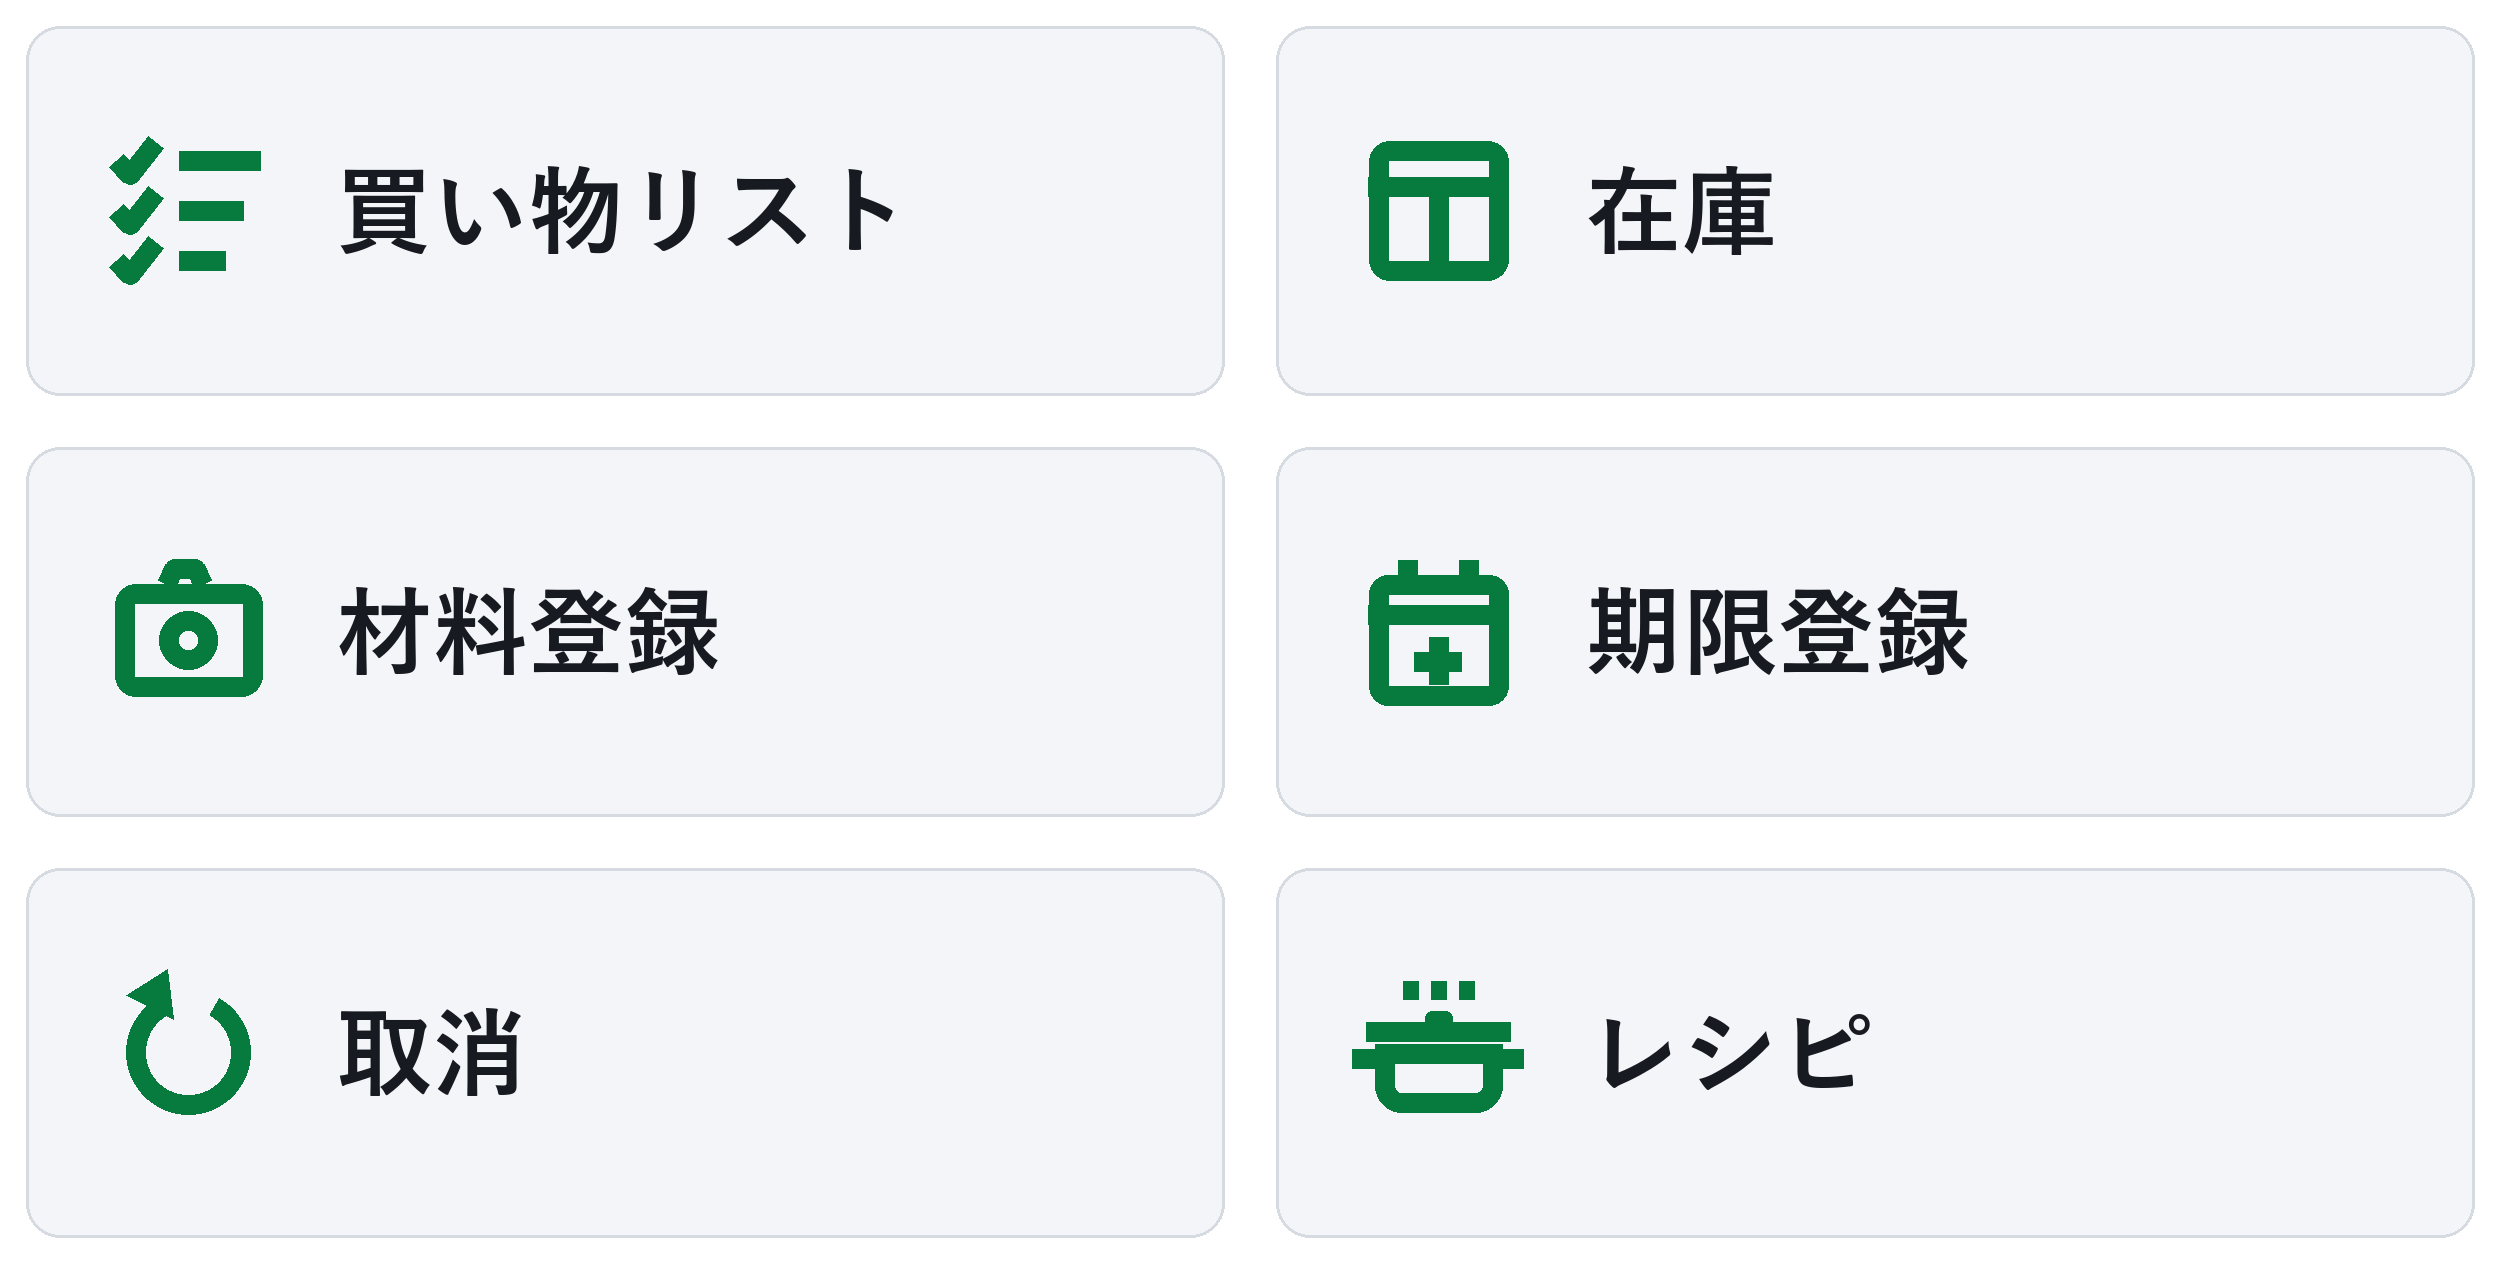
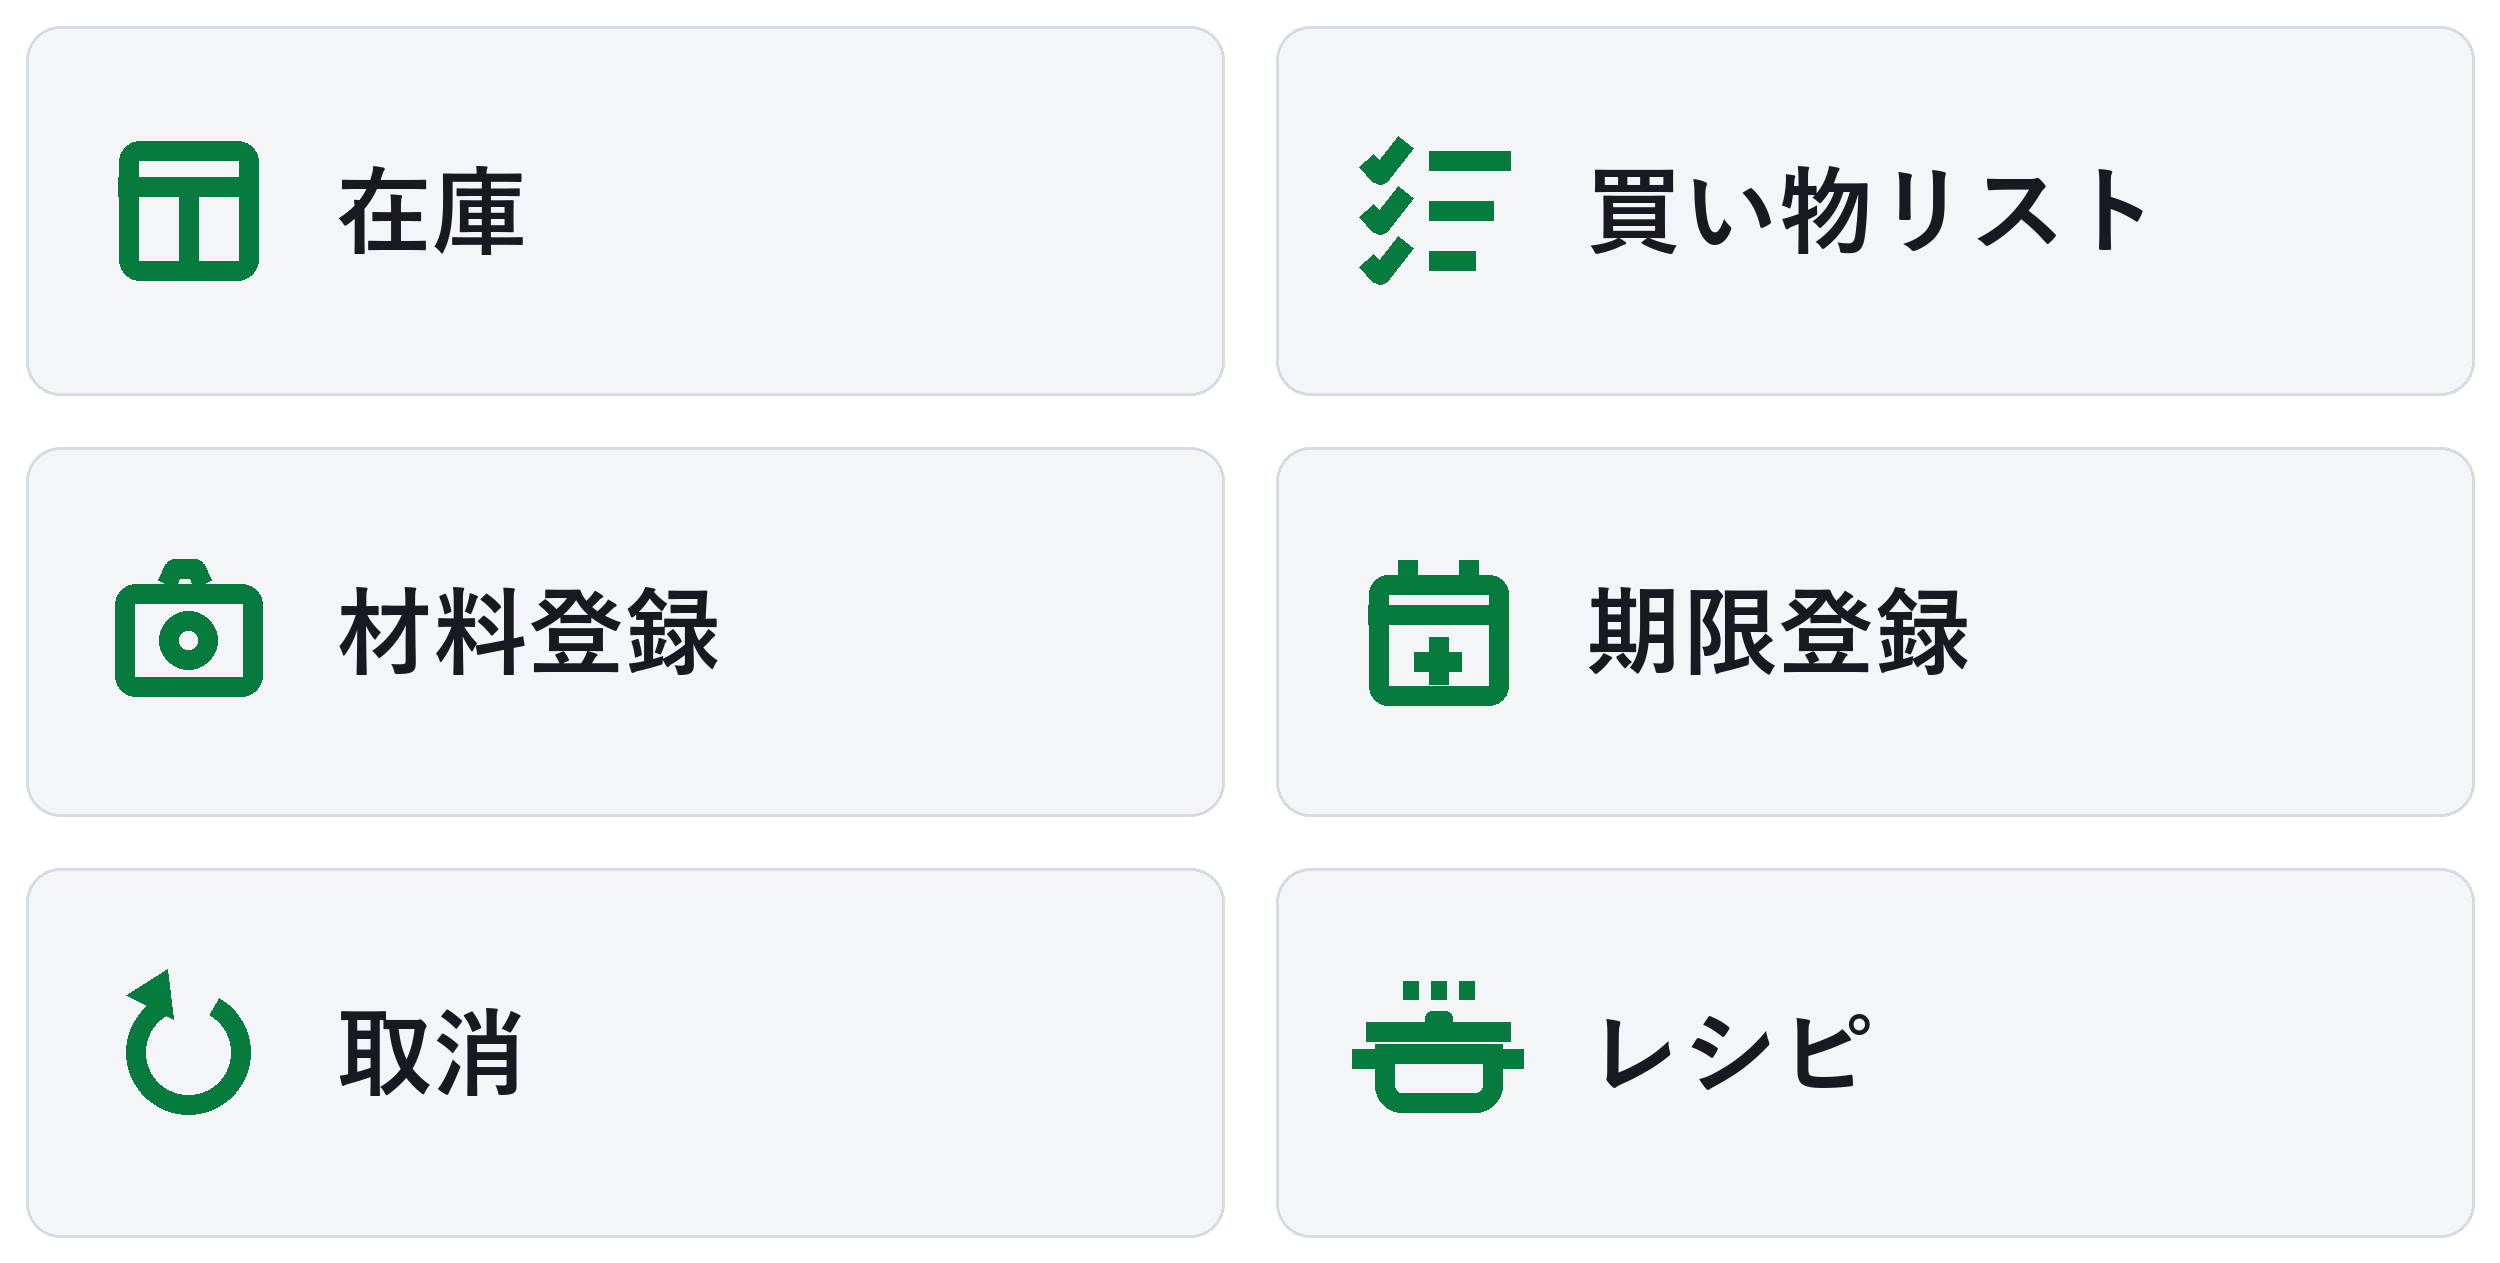
リッチメニューの在庫（左上）と買い物リスト（右上）を入れ替える

Changed region(s): [[0.5304, 0.0926, 0.8736, 0.247], [0.0312, 0.0926, 0.3744, 0.247]]

diff --git a/04-food-expiry/richmenu.py b/04-food-expiry/richmenu.py
@@ -194,10 +194,10 @@ def icon_undo(cx, cy, s, c, lw):
 # (col, row, 見出し, アイコン, 色, 文字色)
 
 CELLS = [
-    (0, 0, "買い物リスト", icon_list,          GREEN, TEXT),
+    (0, 0, "在庫",         icon_box,           GREEN, TEXT),
     (0, 1, "材料登録",     icon_camera,        GREEN, TEXT),
     (0, 2, "取消",         icon_undo,          GREEN, TEXT),
-    (1, 0, "在庫",         icon_box,           GREEN, TEXT),
+    (1, 0, "買い物リスト", icon_list,          GREEN, TEXT),
     (1, 1, "期限登録",     icon_calendar_plus, GREEN, TEXT),
     (1, 2, "レシピ",       icon_pot,           GREEN, TEXT),
 ]
